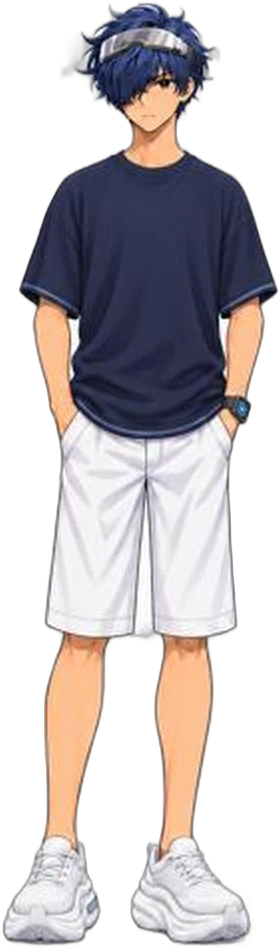
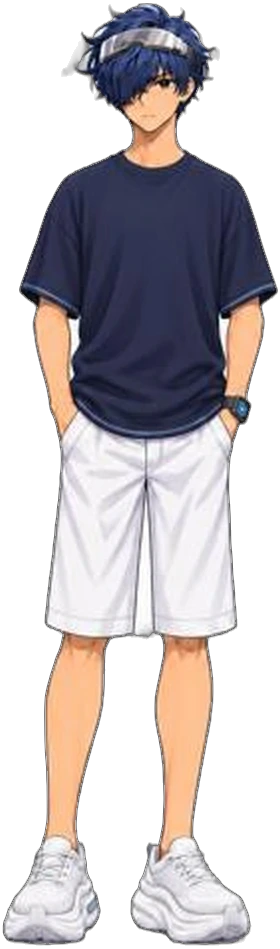
レベルを勝負に効かせる・御三家の進化はLvで覚える(演出つき)・クロッコ強化・引き継ぎにテストの記録も・第N話を出さない・3人の白抜き
- 1レベル=体力・攻撃+5%(前は+0.4%)。物語の勝負も自分の子は自分のLv(話のLvで頭打ちにしない)
- 御三家の系統: 2段目=Lv6・3段目=Lv12で進化を覚える。覚えた時に町で演出
- フォルコンは進化した時にフォックスファイヤー。ピリムサ/クロベクもLv1から威力90
- クロッコ: アクアガ(90)をLv1から。アレク戦(2話・3話)の敵の攻撃は同じ強さになるよう倍率を下げた
- 引き継ぎ: 「全部ためす」の記録(w2_save_test_v1)も一緒に預ける
- 場面の頭・隊選び・目的表示の「第N話」を出さない
- アレク/ニーナ/マルコの立ち絵と顔: ふちの白いゴミを削った

Claude-Session: https://claude.ai/code/session_01GpeKDhxNssKAGTgsZyP1St

diff --git a/proto/world_v2/proto/lib/progress.js b/proto/world_v2/proto/lib/progress.js
@@ -40,7 +40,12 @@ const ARC_POOL={
   egypt:[1004,1036,1042],                                  // 2026-10-28 決定54: クロッコ系(1011)を外した(アレクの相棒)
   norse:[26,1017,1048,16,198,178],                         // 2026-10-28 決定54: クマ系(178)は御三家から外れて北欧の野生に
 };
-const STARTERS=[1001,70,1011];   // 御三家(2026-10-28 決定54: フォルン・ピリポン・クロッコ。前は 1001/178/1022)
+const STARTERS=[1001,70,1011];
+// 2026-11-17 オーナー「フォルレオンに進化できるのが早すぎる…レベルいくらで進化を覚えるで良い」: 御三家の系統は 進化の仕方をレベルで覚える(2段目=Lv6・3段目=Lv12。物語で初めて進化する話の Lv)。その系統でいちばん高い子の Lv で見る
+const EVO_LV={2:6, 3:12};
+function lineLv(b){ const pg=prog(); let mx=0; if(pg) for(const c of pg.roster) if(baseOf(c.mid)===b) mx=Math.max(mx,+c.lv||1); return mx; }
+function lvForm(id){ const b=baseOf(id); return STARTERS.includes(b) && stageOf(id)>=2 && mon(id) && mon(id).role!=='fusion'; }   // レベルで覚える姿か
+function lvFormOk(id){ const need=EVO_LV[stageOf(id)]; return !need || (P.hasLine(id) && lineLv(baseOf(id))>=need); }   // 御三家(2026-10-28 決定54: フォルン・ピリポン・クロッコ。前は 1001/178/1022)
 // 2026-10-28 オーナー「進化の2段目と融合進化は仲間にするというより、進化とか融合の仕方を覚える」:
 //   持つ子(仲間・牧場)=系統の1段目だけ。2段目・3段目の姿=「進化の仕方」(prog.forms)・融合=「融合の仕方」(prog.fusions)を覚える
 //   古代テリオン(マップの ancient の融合体)を倒す → bossLearn の確率でその融合の仕方を覚える(仲間の記録には入るが盤のはじめには出せない・融合でだけ出る)
@@ -71,7 +76,7 @@ P.mon=mon; P.baseOf=baseOf; P.lineOf=lineOf; P.stageOf=stageOf; P.nameOf=nameOf;
 const LV_MAX=99;
 function lvRank(lv){ lv=Math.max(1,Math.min(LV_MAX,+lv||1)); return 1+(lv-1)*19/(LV_MAX-1); }   // battle.js と同じ写し(Lv1=ランク1・Lv99=ランク20=+38%)
 function rankLv(rank){ return Math.max(1,Math.min(LV_MAX,Math.round(1+((+rank||1)-1)*(LV_MAX-1)/19))); }
-function statX(lv){ return 1+0.02*(lvRank(lv)-1); }   // 体力・攻撃の倍率
+function statX(lv){ lv=Math.max(1,Math.min(LV_MAX,+lv||1)); return 1+0.05*(lv-1); }   // 2026-11-17: battle.js の lvRank(1Lv=+5%)と同じ   // 体力・攻撃の倍率
 P.lvRank=lvRank; P.rankLv=rankLv; P.statX=statX; P.expNeed=CFG.expNeed; P.LV_MAX=LV_MAX;
 function addExp(c, n){ const out={uid:c.uid, mid:c.mid, before:c.lv, exp:0}; if(c.lv>=LV_MAX){ c.exp=0; return out; }
   c.exp=(c.exp||0)+n; out.exp=n; let g=0; while(c.lv<LV_MAX && c.exp>=CFG.expNeed(c.lv) && g++<LV_MAX){ c.exp-=CFG.expNeed(c.lv); c.lv++; } if(c.lv>=LV_MAX) c.exp=0; out.after=c.lv; return out; }
@@ -165,11 +170,13 @@ P.isAncientFusion=(mid)=>ANCIENT_FUSIONS.includes(+mid);
 function learnForm(mid){ const pg=prog(); if(!pg) return []; pg.forms=pg.forms||{}; const ln=lineOf(mid), i=ln.indexOf(+mid), out=[];   // その姿まで(3段目を覚えたら2段目も)
   for(let j=1;j<=i;j++){ const id=ln[j]; if(stageOf(id)>=2&&!pg.forms[id]){ pg.forms[id]=1; out.push(id); } } return out; }
 P.hasLine=(mid)=>{ const pg=prog(); if(!pg) return false; const b=baseOf(mid); return pg.roster.some(c=>baseOf(c.mid)===b); };   // その系統の子(1段目)を持っている
-P.knowsForm=(mid)=>{ const pg=prog(); if(!pg||!mon(mid)) return false; if(stageOf(mid)<=1) return P.hasLine(mid); return !!(pg.forms&&pg.forms[+mid]); };
+P.knowsForm=(mid)=>{ const pg=prog(); if(!pg||!mon(mid)) return false; if(stageOf(mid)<=1) return P.hasLine(mid); if(lvForm(mid)) return lvFormOk(mid); return !!(pg.forms&&pg.forms[+mid]); };
 P.knowsFusion=(fid)=>{ const pg=prog(); const m=mon(fid); if(!pg||!m||m.role!=='fusion') return false; if(pg.fusions&&pg.fusions[+fid]) return true; return !!(SAVE&&SAVE.unlock&&SAVE.unlock.fusion) && !ANCIENT_FUSIONS.includes(+fid) && Array.isArray(m.recipe) && m.recipe.length===2; };
 P.hasForm=(mid)=>{ const m=mon(mid); if(!m) return false; return m.role==='fusion'?P.knowsFusion(mid):P.knowsForm(mid); };
 P.fusionKnownList=()=>Object.values(MON).filter(m=>m.role==='fusion'&&P.knowsFusion(m.id)).map(m=>m.id).sort(byOrd);   // 2026-11-13 monsters.json の順(Object.values は id の小さい順になる)
-P.formsList=()=>{ const pg=prog(); return pg&&pg.forms?Object.keys(pg.forms).map(Number).filter(id=>mon(id)):[]; };
+P.formsList=()=>{ const pg=prog(); const o=new Set(pg&&pg.forms?Object.keys(pg.forms).map(Number).filter(id=>mon(id)&&!lvForm(id)):[]); for(const b of STARTERS) for(const id of lineOf(b)) if(lvForm(id)&&lvFormOk(id)) o.add(id); return [...o]; };
+P.evoLv=(mid)=>lvForm(mid)?EVO_LV[stageOf(mid)]:null;   // レベルで覚える姿なら その Lv
+P.evoAvail=()=>{ if(!(SAVE&&SAVE.unlock&&SAVE.unlock.evo)) return []; const o=[]; for(const b of STARTERS) for(const id of lineOf(b)) if(lvForm(id)&&lvFormOk(id)) o.push(id); return o; };   // 今 進化できる(レベルで覚えた)姿
 // その姿を手に入れた(野生のリーダー・生み出す・ボス): 2段目以上 → 進化の仕方を覚える / その系統の子がいなければ1段目の子を1体
 function obtain(mid, lv, src){ const out={mid:+mid, forms:[], gave:null}; if(stageOf(mid)>=2) out.forms=learnForm(mid); if(!P.hasLine(mid)) out.gave=P.add(baseOf(mid), lv, src); return out; }
 P.obtain=obtain;
@@ -203,7 +210,7 @@ P.swap=function(uParty,uRanch){ const pg=prog(); if(!pg) return false; const i=p
 P.setLeader=function(u){ const pg=prog(); if(!pg||!pg.party.includes(u)) return false; pg.party=[u].concat(pg.party.filter(x=>x!==u)); SAVE.partner=P.get(u).mid; P.save(); return true; };
 P.release=function(u){ const pg=prog(); if(!pg) return false; if(pg.party.includes(u)&&pg.party.length<=1) return false; pg.roster=pg.roster.filter(c=>c.uid!==u); pg.party=pg.party.filter(x=>x!==u); P.save(); return true; };
 // 持っている種類(バトルの進化の判定に渡す): 持っている子(1段目)＋覚えた進化の仕方(物語で進化が解禁されたあと)。2026-10-28
-P.ownedList=function(){ const pg=prog(); const o=new Set(); const evo=!!(SAVE&&SAVE.unlock&&SAVE.unlock.evo); for(const c of (pg?pg.roster:[])) o.add(baseOf(c.mid)); if(evo&&pg&&pg.forms) for(const k in pg.forms) o.add(+k); if(SAVE&&SAVE.test) for(const id of (SAVE.owned||[])) o.add(+id); return [...o]; };
+P.ownedList=function(){ const pg=prog(); const o=new Set(); const evo=!!(SAVE&&SAVE.unlock&&SAVE.unlock.evo); for(const c of (pg?pg.roster:[])) o.add(baseOf(c.mid)); if(evo&&pg&&pg.forms) for(const k in pg.forms) if(!lvForm(+k)) o.add(+k); if(evo) for(const id of P.formsList()) if(lvForm(id)) o.add(id); if(SAVE&&SAVE.test) for(const id of (SAVE.owned||[])) o.add(+id); return [...o]; };
 P.legacyBox=function(){ const box={}; for(const c of P.roster()){ const b=baseOf(c.mid); if(!box[b]||box[b].lv<c.lv) box[b]={rank:Math.round(lvRank(c.lv)), lv:c.lv}; } return box; };
 P.battleParty=()=>P.party().map(c=>({mid:c.mid, lv:c.lv, uid:c.uid}));
 
@@ -300,6 +307,7 @@ P.applyResult=function(res, ctx){ const rows=[]; const pg=prog(); if(!pg) return
   const total=Math.round(ctx.enemy.reduce((s,e)=>s+CFG.expGain(e.lv||1, stage(e.mid), ctx.kind)*(e.pack?CFG.packExp:1),0))||CFG.expGain(1,1,ctx.kind);
   (res.party||[]).forEach((p,i)=>{ const ent=ctx.party[i]; const c=ent&&P.get(ent.uid); if(!c) return; const n=Math.max(1,Math.round(total*(p.out?1:CFG.benchExp))); const r=addExp(c,n); res.progress.exp.push(r);
     rows.push(`${nameOf(c.mid)}　EXP +${n}`); if(r.after>r.before){ res.progress.lvup.push(r); rows.push(`<span class="lvup">${nameOf(c.mid)}　Lv${r.before} → Lv${r.after}</span>`);
+      for(const id of lineOf(c.mid)) if(lvForm(id)){ const need=EVO_LV[stageOf(id)]; if(SAVE&&SAVE.unlock&&SAVE.unlock.evo&&r.before<need&&r.after>=need&&lineLv(baseOf(id))<=r.after){ (res.progress.evo||(res.progress.evo=[])).push({from:lineOf(c.mid)[stageOf(id)-2], to:id}); rows.push(`<span class="lvup">${nameOf(lineOf(c.mid)[stageOf(id)-2])}は ${nameOf(id)}への進化を覚えた！</span>`); } }
       const f=formFor(c); const nw=newMovesBetween(f, r.before, r.after); if(nw.length){ const L={uid:c.uid, mid:f, name:nameOf(f), moves:nw.map(x=>x.name)}; (res.progress.learn||(res.progress.learn=[])).push(L); rows.push(`<span class="lvup">新しい技を覚えた　${nameOf(f)}「${L.moves.map(rubyByName).join('」「')}」</span>`); } } });
   if(res.progress.learn&&res.progress.learn.length) UI.learnNotice(res.progress.learn);
   if(res.rewards){ if(ctx.zeroday&&ctx.kind!=='wild'){ res.progress.gems=res.rewards.gems; if(res.rewards.gems) P.addGems(res.rewards.gems,'zeroday'); } else res.rewards.gems=0; }   // ジェムはヴィクター(手下・幹部)を倒した時だけ(G2)

diff --git a/proto/world_v2/proto/lib/pay.js b/proto/world_v2/proto/lib/pay.js
@@ -165,13 +165,13 @@ function close(){ if(!R||S==='busy') return; R.classList.remove('on'); S=null; i
 // ---------------------------------------------------------------- 機種を変えた時の引き継ぎ(2026-10-31)
 //   出す: 合言葉を決めて コード(XXXX-XXXX-XXXX)をもらう。有償ジェム(サーバー)とセーブ(localStorage の w2_save_v1 だけ)を預ける。セーブはサーバーで暗号化・24時間で消える
 //   受け取る: コード＋合言葉 → この機種のトークンとセーブを書きかえて読み直す(前の機種の有償ジェムは使えなくなる)
-const XK='therion_xfer_v1';
+const XK='therion_xfer_v1'; const TEST_KEY='w2_save_test_v1';
 function saveKey(){ const P=root.Progress; return (P&&P.config&&P.config.cfg&&P.config.cfg.key)||'w2_save_v1'; }
 function issued(){ try{ const x=JSON.parse(localStorage.getItem(XK)||'null'); if(x&&x.code&&new Date(x.exp)>new Date()) return x; if(x) localStorage.removeItem(XK); }catch(e){} return null; }
 async function xIssue(pass){ if(!(await config())) return {ok:false, why:'off'};
   for(let i=0;i<2;i++){ if(!(await ensureDevice())) return {ok:false, why:'net'};
     try{ const P=root.Progress; if(P&&P.state&&P.state()&&P.save) P.save(); }catch(e){}   // 今の進み具合を書いてから預ける
-    let save=null; try{ save=localStorage.getItem(saveKey()); }catch(e){}
+    let save=null; try{ const m=localStorage.getItem(saveKey()), t=localStorage.getItem(TEST_KEY); save=t?JSON.stringify({__xfer:2, main:m, test:t}):m; }catch(e){}   // 2026-11-17 オーナー「引き継いだが引き継げてない」: 「全部ためす」の記録(別の鍵)も一緒に預ける
     const r=await api('POST','/transfer/issue',{passcode:pass, save:save||undefined},60000);
     if(r.status===200){ try{ localStorage.setItem(XK, JSON.stringify({code:r.body.code, exp:r.body.expiresAt})); }catch(e){} return {ok:true, code:r.body.code, expiresAt:r.body.expiresAt}; }
     if(r.status===401){ dropToken(); continue; }
@@ -186,8 +186,12 @@ async function xRedeem(code, pass){ if(!(await config())) return {ok:false, why:
   const r=await api('POST','/transfer/redeem',{code, passcode:pass},60000);
   if(r.status!==200) return {ok:false, why:r.status===0||r.status>=500?'net':(r.body.error||'net'), left:r.body.left, locked:r.body.locked};
   const b=r.body; const sk=saveKey();
-  try{ localStorage.setItem(LSK, JSON.stringify({deviceId:b.deviceId, token:b.token, t:Date.now()})); if(b.save) localStorage.setItem(sk, b.save); localStorage.removeItem(XK); }catch(e){ return {ok:false, why:'storage'}; }
-  freeze([LSK, sk]); W=null; return {ok:true, paidGems:b.paidGems, hasSave:!!b.save}; }
+  let pk=null; if(b.save&&b.save.slice(0,10)==='{"__xfer":'){ try{ pk=JSON.parse(b.save); }catch(e){ pk=null; } }
+  try{ localStorage.setItem(LSK, JSON.stringify({deviceId:b.deviceId, token:b.token, t:Date.now()}));
+    if(pk){ if(pk.main) localStorage.setItem(sk, pk.main); if(pk.test) localStorage.setItem(TEST_KEY, pk.test); }
+    else if(b.save) localStorage.setItem(sk, b.save);
+    localStorage.removeItem(XK); }catch(e){ return {ok:false, why:'storage'}; }
+  freeze([LSK, sk, TEST_KEY]); W=null; return {ok:true, paidGems:b.paidGems, hasSave:!!(pk?(pk.main||pk.test):b.save)}; }
 function deviceNo(){ const d=ls(); return d&&d.deviceId?String(d.deviceId).slice(0,8):''; }
 const transfer={ issue:xIssue, cancel:xCancel, redeem:xRedeem, issued, deviceNo, reload:()=>location.reload() };
 

diff --git a/proto/world_v2/proto/story/gr_fights.js b/proto/world_v2/proto/story/gr_fights.js
@@ -37,9 +37,9 @@ function grBoard(k,look){ const B=GR_BOARDS[k]; if(!B) return null; return {grid
 const GR_FIGHTS={
   1: {tadj:2.0, foe:{n:'ニーナ', party:[{mid:178}]}, me:['P1'], lv:5, board:'ep01', look:'agora', must:1, ai:{hpX:1.182,atkX:0.726},
       hint:'大きなオリーブの木の根もとでは、炎が強くなる。'},
-  2: {tadj:2.0, foe:{n:'アレク', party:[{mid:1011}]}, me:['P1'], lv:5, board:'ep02', look:'agora', must:0, ai:{hpX:1.386,atkX:1.070},
+  2: {tadj:2.0, foe:{n:'アレク', party:[{mid:1011}]}, me:['P1'], lv:5, board:'ep02', look:'agora', must:0, ai:{hpX:1.386,atkX:0.713},
       hint:'水は炎に強い。水路のそばの水は、遠くまで届く。'},
-  3: {tadj:2.0, foe:{n:'アレク', party:[{mid:1011}]}, me:['P1',70], lv:5, board:'ep03', look:'grove', must:1, ai:{hpX:1.2,atkX:1.6},
+  3: {tadj:2.0, foe:{n:'アレク', party:[{mid:1011}]}, me:['P1',70], lv:5, board:'ep03', look:'grove', must:1, ai:{hpX:1.2,atkX:1.067},
       hint:'炎は水に弱い。雷は水によく効く。水の子は乾いた石の上で弱る。'},
   4: {tadj:2.0, foe:{n:'マルコ', party:[{mid:1007,fixed:true,evo:true}]}, me:['P1'], lv:6, board:'ep04', look:'olive', must:1, own:[1002], evo:1, ai:{hpX:0.937,atkX:0.693},
       hint:'盤のまん中の三列に入ると、フォルンはフォルコンに進化できる。'},
